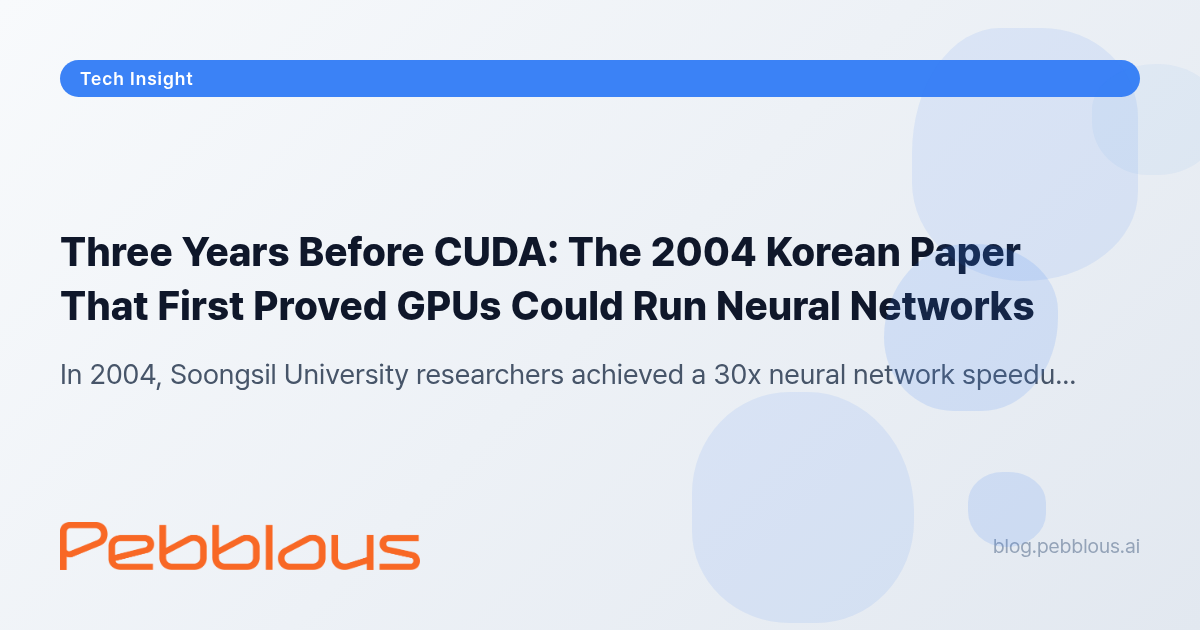
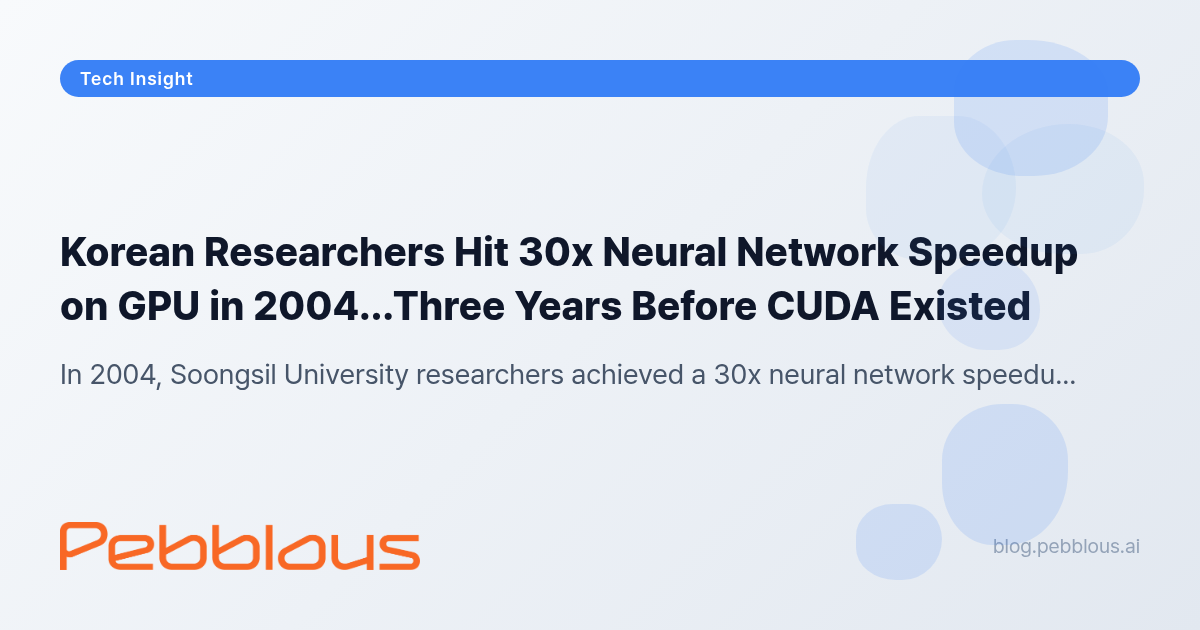
fix: 신문기사 스타일 제목으로 교체 + OG 이미지 재생성
KO: 숭실대 연구진, GPU로 신경망 30배 가속…2004년 세계 최초, CUDA보다 3년 먼저
EN: Korean Researchers Hit 30x Neural Network Speedup on GPU in 2004…Three Years Before CUDA Existed

Changed region(s): [[0.0308, 0.3619, 0.8942, 0.9349], [0.925, 0.1508, 0.9558, 0.2413], [0.8017, 0.2413, 0.8633, 0.2714]]

diff --git a/blog/gpu-neural-network-2004/en/index.html b/blog/gpu-neural-network-2004/en/index.html
@@ -11,7 +11,7 @@
     <meta name="copyright" content="© 2026 Pebblous. All rights reserved.">
     <meta name="robots" content="index, follow">
 
-    <title>Three Years Before CUDA: The 2004 Korean Paper That First Proved GPUs Could Run Neural Networks | Pebblous</title>
+    <title>Korean Researchers Hit 30x Neural Network Speedup on GPU in 2004…Three Years Before CUDA Existed | Pebblous</title>
     <meta name="description" content="In 2004, researchers at Soongsil University in Korea achieved a 30x neural network speedup using an ATI Radeon GPU and DirectX pixel shaders — three years before CUDA existed. Jeff Dean cited it in 2022 as the origin point of GPU deep learning.">
     <meta name="keywords" content="GPU neural network, Soongsil University, Oh Kyoung-su, Jung Keechul, CUDA history, ATI Radeon, pixel shader, deep learning history, Jeff Dean, AI history">
 
@@ -24,7 +24,7 @@
 
     <!-- OG -->
     <meta property="og:type" content="article">
-    <meta property="og:title" content="Three Years Before CUDA: The 2004 Korean Paper That First Proved GPUs Could Run Neural Networks">
+    <meta property="og:title" content="Korean Researchers Hit 30x Neural Network Speedup on GPU in 2004…Three Years Before CUDA Existed">
     <meta property="og:description" content="In 2004, Soongsil University researchers achieved a 30x neural network speedup with an ATI Radeon GPU and DirectX pixel shaders — before CUDA existed. Jeff Dean cited it as the origin of GPU deep learning.">
     <meta property="og:url" content="https://blog.pebblous.ai/blog/gpu-neural-network-2004/en/">
     <meta property="og:image" content="https://blog.pebblous.ai/blog/gpu-neural-network-2004/en/image/index.png">
@@ -32,7 +32,7 @@
 
     <!-- Twitter -->
     <meta name="twitter:card" content="summary_large_image">
-    <meta name="twitter:title" content="Three Years Before CUDA: The 2004 Korean Paper That First Proved GPUs Could Run Neural Networks">
+    <meta name="twitter:title" content="Korean Researchers Hit 30x Neural Network Speedup on GPU in 2004…Three Years Before CUDA Existed">
     <meta name="twitter:description" content="In 2004, Soongsil University researchers achieved a 30x neural network speedup with an ATI Radeon GPU — before CUDA existed.">
     <meta name="twitter:image" content="https://blog.pebblous.ai/blog/gpu-neural-network-2004/en/image/index.png">
     <meta name="twitter:image:alt" content="2004 Soongsil University GPU Neural Network Paper — World's First, Before CUDA">
@@ -277,9 +277,9 @@
     <script src="/scripts/common-utils.js?v=20260410"></script>
     <script>
         PebblousPage.init({
-            mainTitle: "Three Years Before CUDA: The 2004 Korean Paper That First Proved GPUs Could Run Neural Networks",
+            mainTitle: "Korean Researchers Hit 30x Neural Network Speedup on GPU in 2004…Three Years Before CUDA Existed",
             subtitle: "Oh and Jung at Soongsil University achieved a 30x neural network speedup using DirectX pixel shaders. Jeff Dean called it the origin of GPU deep learning — 18 years later.",
-            pageTitle: "Three Years Before CUDA: The 2004 Korean GPU Neural Network Paper | Pebblous",
+            pageTitle: "30x GPU Neural Network Speedup in 2004, Before CUDA — Soongsil University | Pebblous",
             category: "tech",
             publishDate: "2026-04-10",
             publisher: "Pebblous Data Communication Team",

diff --git a/blog/gpu-neural-network-2004/ko/index.html b/blog/gpu-neural-network-2004/ko/index.html
@@ -11,7 +11,7 @@
     <meta name="copyright" content="© 2026 Pebblous. All rights reserved.">
     <meta name="robots" content="index, follow">
 
-    <title>CUDA보다 3년 먼저 — 2004년 숭실대가 GPU로 신경망을 30배 빠르게 했다 | 페블러스</title>
+    <title>숭실대 연구진, GPU로 신경망 30배 가속…2004년 세계 최초, CUDA보다 3년 먼저 | 페블러스</title>
     <meta name="description" content="2004년 숭실대 오경수·정기철 연구진은 CUDA도 없던 시절, ATI Radeon의 픽셀셰이더로 신경망 속도를 30배 끌어올렸다. 세계 최초의 GPU 신경망 논문. 18년 뒤 구글 제프 딘이 공식 인용했다.">
     <meta name="keywords" content="GPU 신경망, 숭실대, 오경수, 정기철, CUDA 이전, ATI Radeon, 픽셀셰이더, 딥러닝 역사, 제프 딘, AI 역사">
 
@@ -24,7 +24,7 @@
 
     <!-- OG -->
     <meta property="og:type" content="article">
-    <meta property="og:title" content="CUDA보다 3년 먼저 — 2004년 숭실대가 GPU로 신경망을 30배 빠르게 했다">
+    <meta property="og:title" content="숭실대 연구진, GPU로 신경망 30배 가속…2004년 세계 최초, CUDA보다 3년 먼저">
     <meta property="og:description" content="CUDA도 없던 2004년, 숭실대 연구진은 ATI Radeon 픽셀셰이더로 신경망 속도를 30배 끌어올렸다. 세계 최초의 GPU 신경망 논문이 한국에서 나왔다.">
     <meta property="og:url" content="https://blog.pebblous.ai/blog/gpu-neural-network-2004/ko/">
     <meta property="og:image" content="https://blog.pebblous.ai/blog/gpu-neural-network-2004/ko/image/index.png">
@@ -32,7 +32,7 @@
 
     <!-- Twitter -->
     <meta name="twitter:card" content="summary_large_image">
-    <meta name="twitter:title" content="CUDA보다 3년 먼저 — 2004년 숭실대가 GPU로 신경망을 30배 빠르게 했다">
+    <meta name="twitter:title" content="숭실대 연구진, GPU로 신경망 30배 가속…2004년 세계 최초, CUDA보다 3년 먼저">
     <meta name="twitter:description" content="CUDA도 없던 2004년, 숭실대 연구진은 ATI Radeon 픽셀셰이더로 신경망 속도를 30배 끌어올렸다.">
     <meta name="twitter:image" content="https://blog.pebblous.ai/blog/gpu-neural-network-2004/ko/image/index.png">
     <meta name="twitter:image:alt" content="2004년 숭실대 GPU 신경망 논문 — CUDA 이전의 세계 최초">
@@ -278,9 +278,9 @@
     <script src="/scripts/common-utils.js?v=20260410"></script>
     <script>
         PebblousPage.init({
-            mainTitle: "CUDA보다 3년 먼저 — 2004년 숭실대가 GPU로 신경망을 30배 빠르게 했다",
+            mainTitle: "숭실대 연구진, GPU로 신경망 30배 가속…2004년 세계 최초, CUDA보다 3년 먼저",
             subtitle: "세계 최초의 GPU 신경망 논문이 한국에서 나왔다. 18년 뒤, 제프 딘이 말해줬다.",
-            pageTitle: "CUDA보다 3년 먼저 — 2004년 숭실대 GPU 신경망 | 페블러스",
+            pageTitle: "숭실대 GPU 신경망 30배 가속, 세계 최초 2004년 | 페블러스",
             category: "tech",
             publishDate: "2026-04-10",
             publisher: "(주)페블러스 데이터 커뮤니케이션팀",
